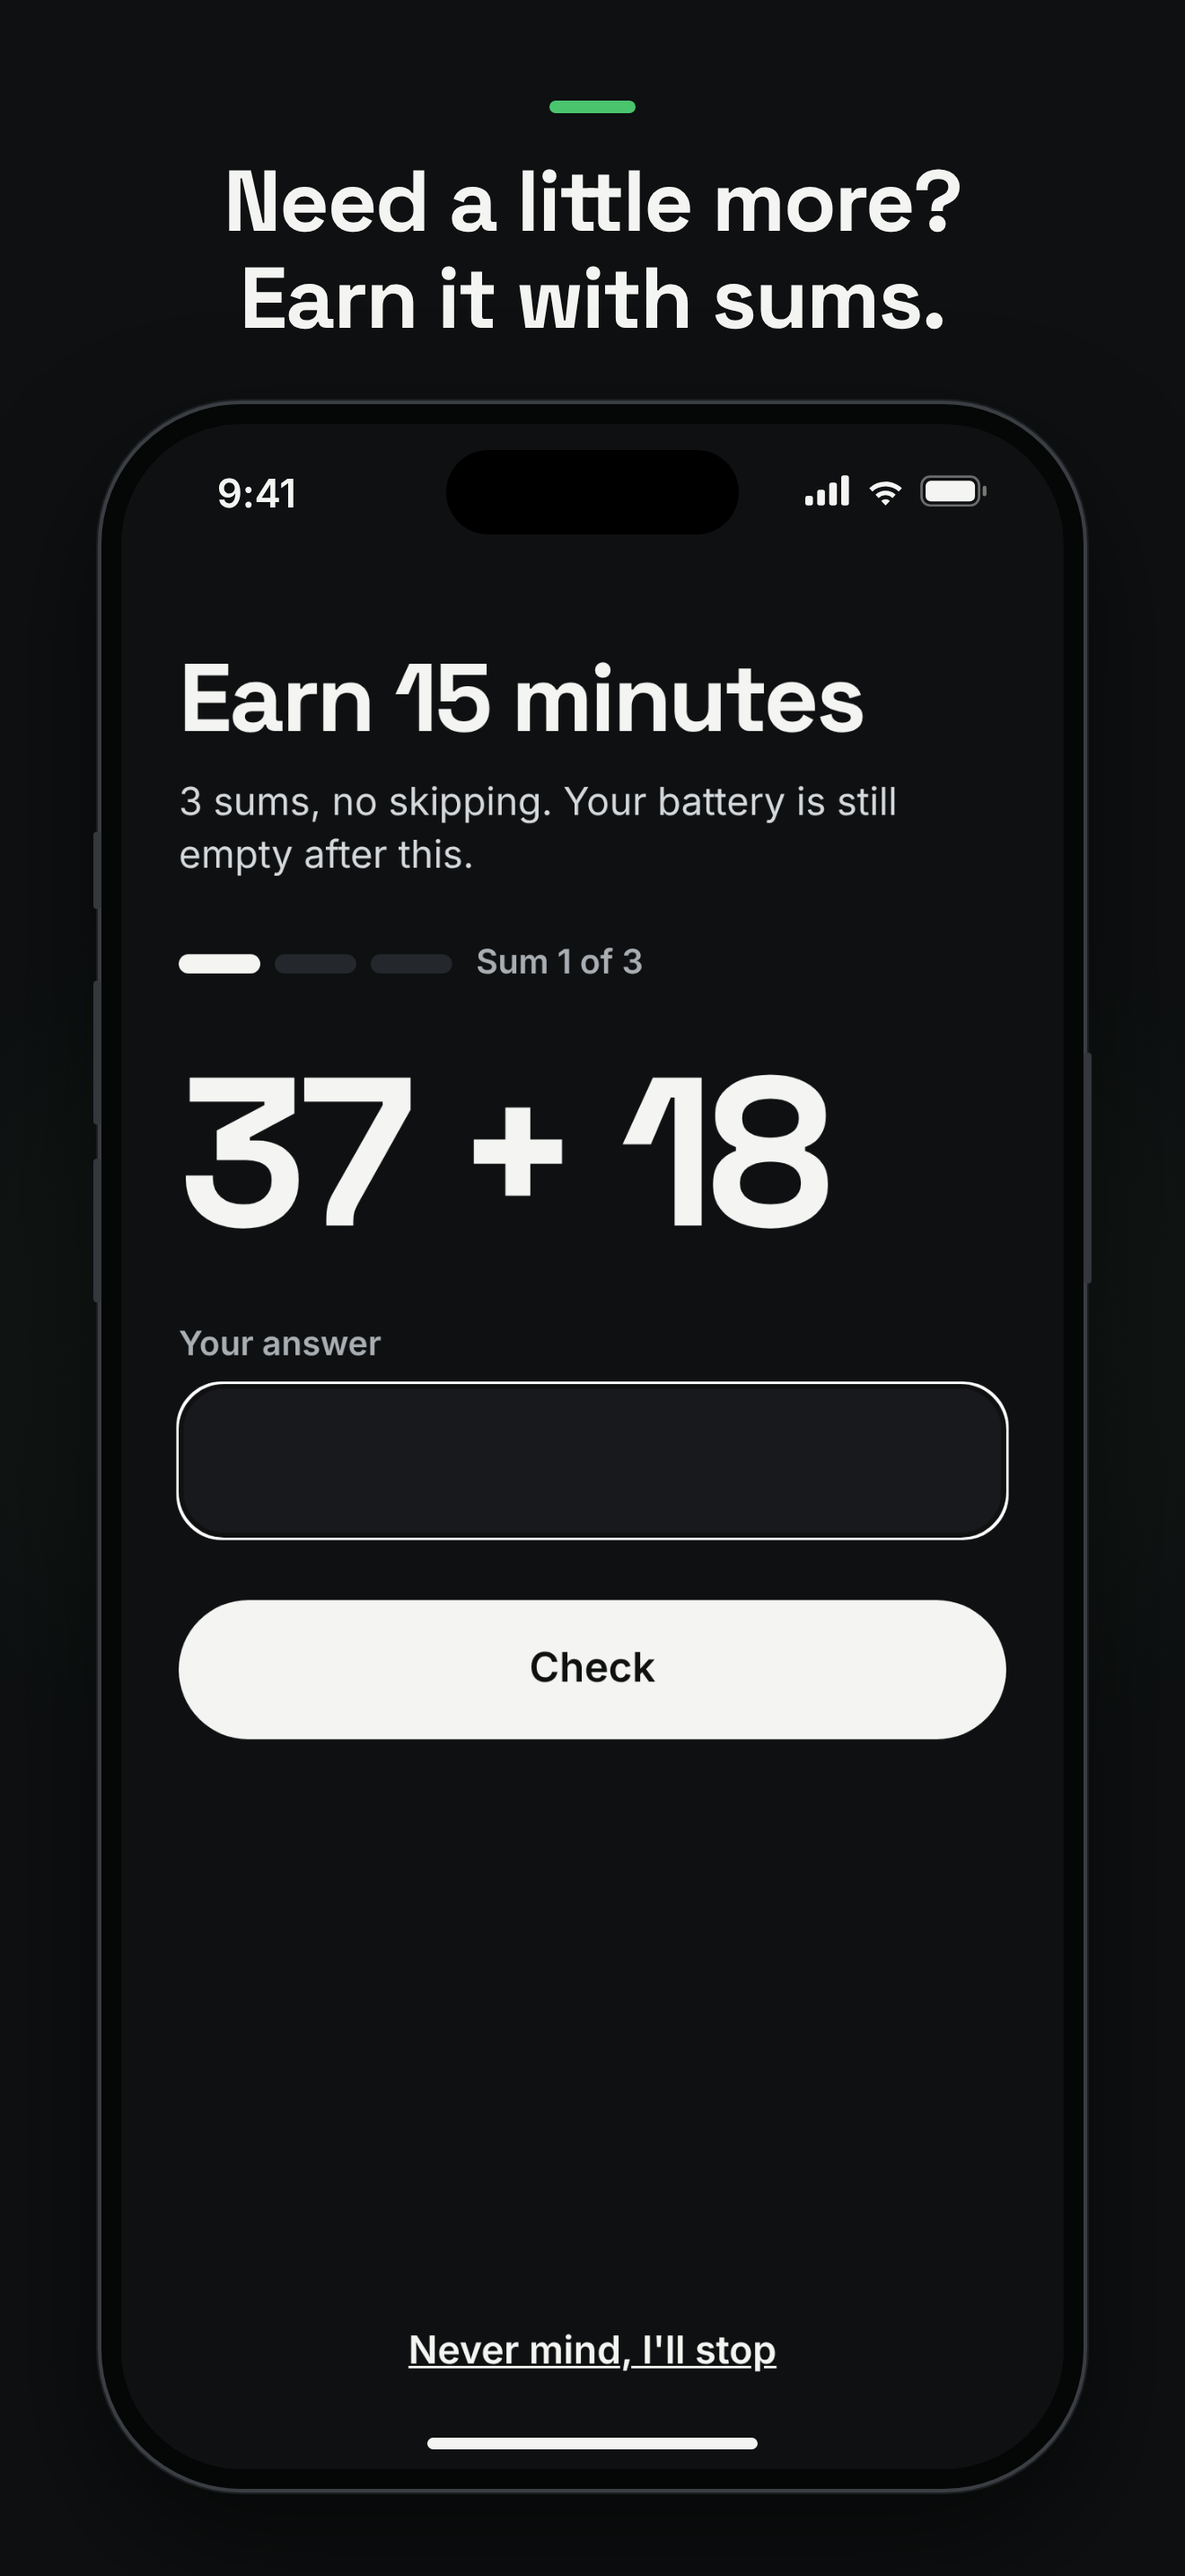
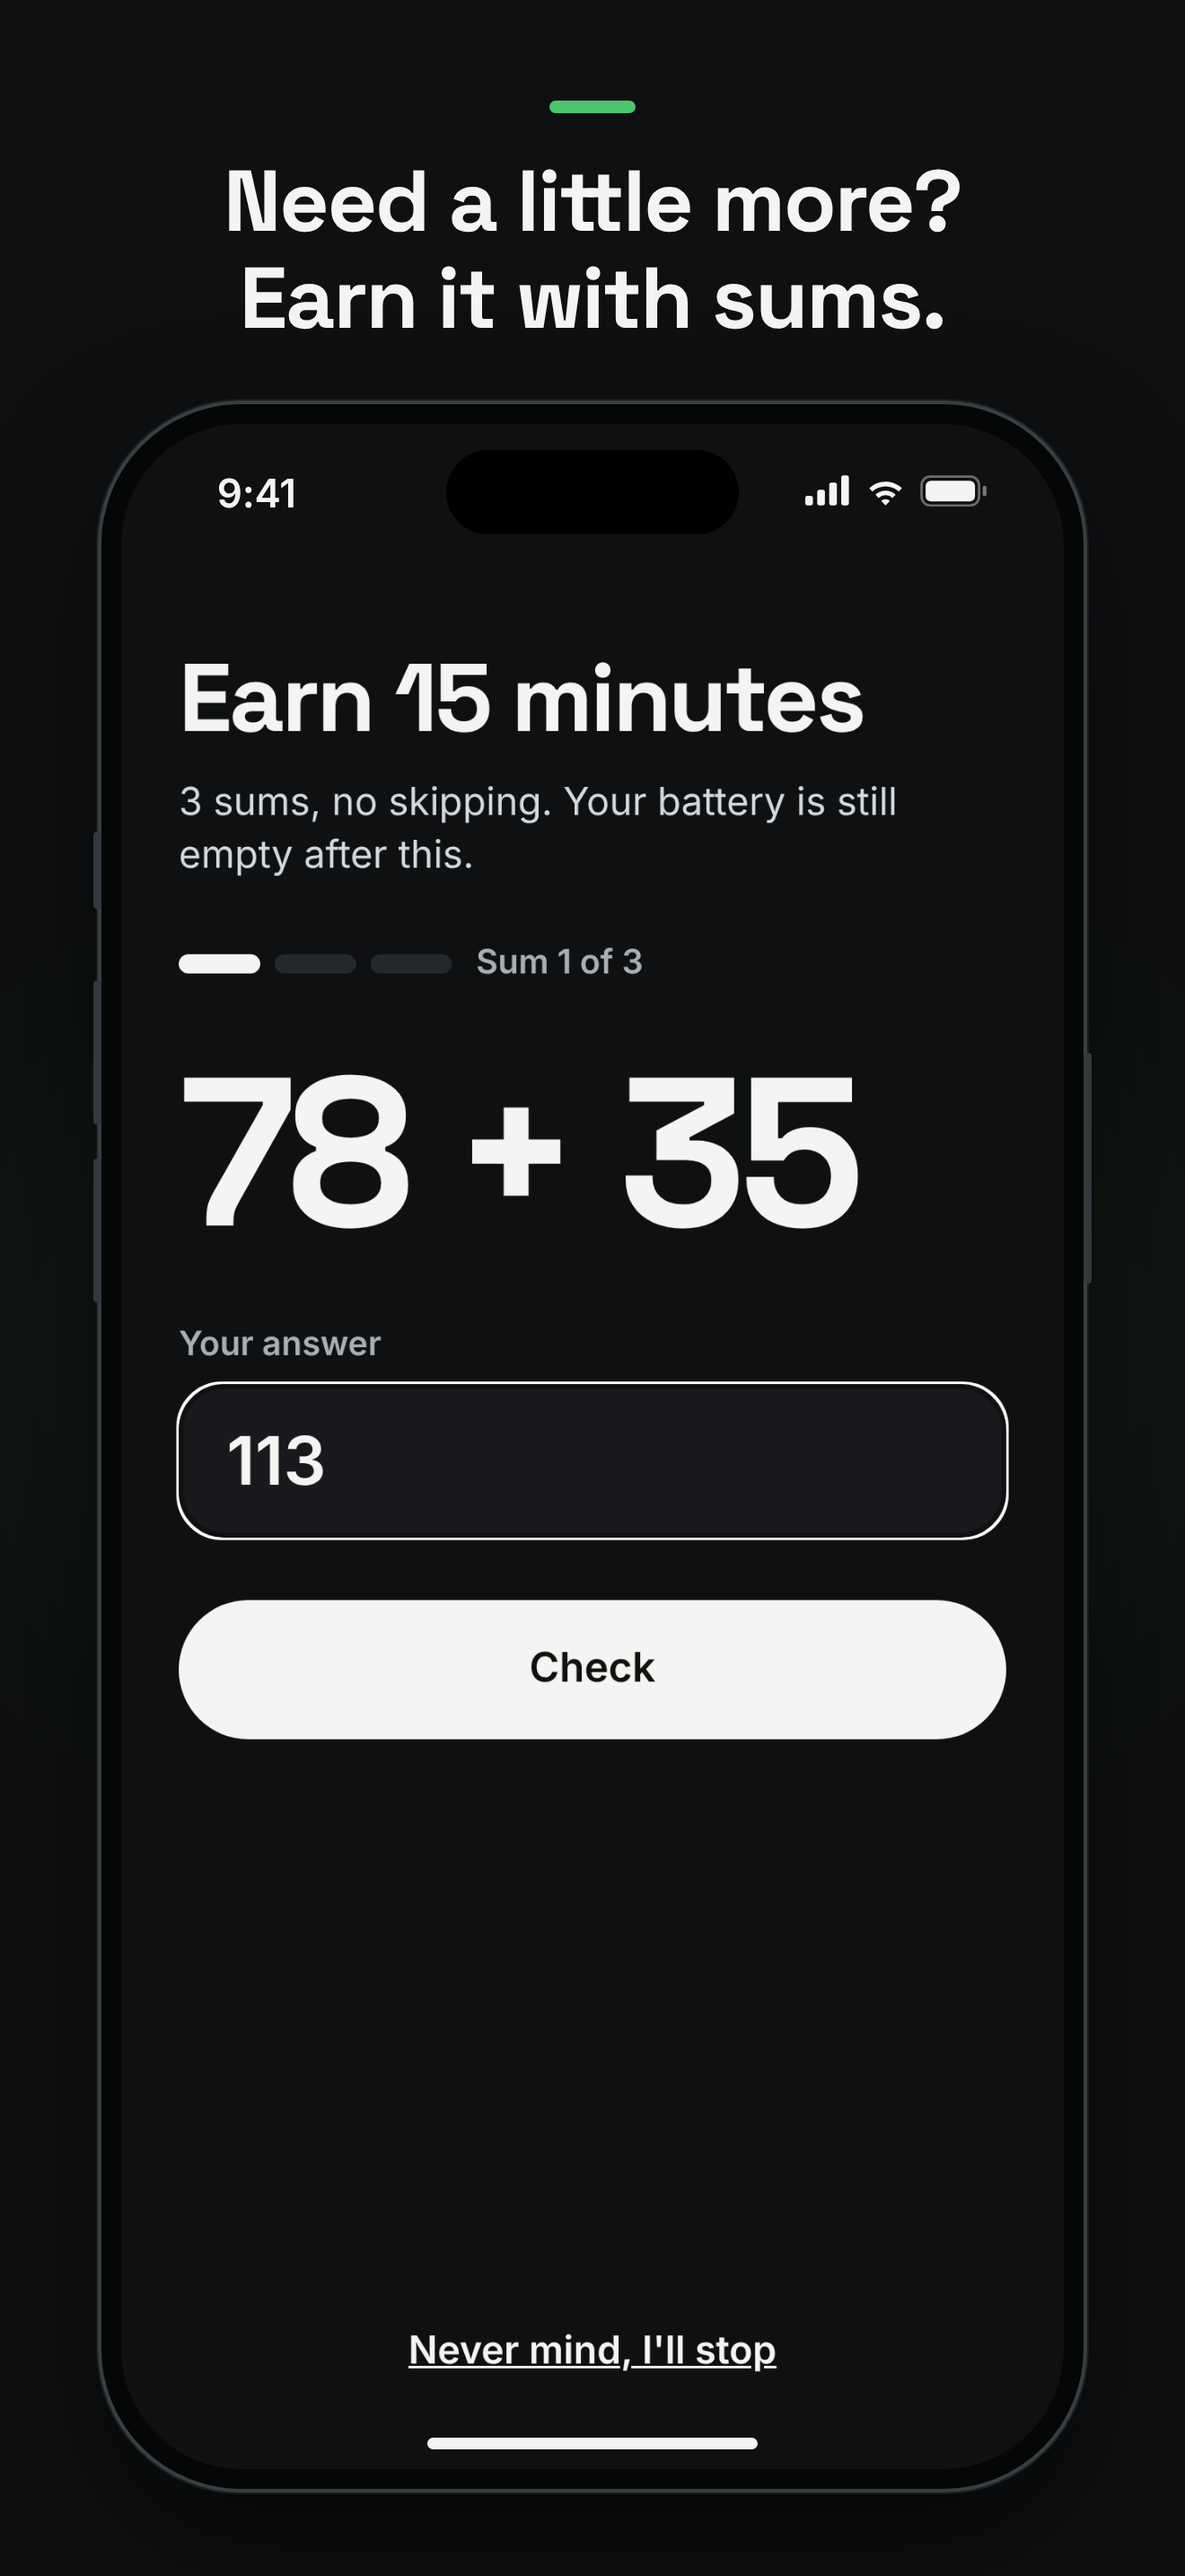
Plainlimit store screenshots: four, the strongest first
After a fresh-eyes review: What counts left out (it names other apps), the
empty battery shot in Locked mode to match its caption, the clock fixed at
9:41 AM so the countdown agrees, and an answer typed into the sums.

Claude-Session: https://claude.ai/code/session_01P4SSbMQUsnKyhcfhzrtFQp

Changed region(s): [[0.528, 0.4034, 0.7455, 0.4965], [0.1553, 0.4034, 0.3417, 0.4965], [0.1864, 0.5586, 0.2795, 0.5896]]

diff --git a/apps/plainlimit/NOTES.md b/apps/plainlimit/NOTES.md
@@ -320,7 +320,7 @@ The owner chose on 2026-11-16 to put Plainlimit on the App Store now, free with 
 
 1. **Release build.** `apps/plainlimit/testflight-request.json` with `"flavor": "release"`: no Developer section, no test buttons, no readout. `npm run check:release` (scripts/release-check.cjs) must pass first: the test tools switch off by themselves, the browser stand-in stays in the browser, no analytics, crash-reporting, update or purchase service, and the listing's bundle id matches. The privacy manifest also gives 1C8F.1 for the App Group settings the extensions share.
 2. **The listing** (`store/plainlimit/listing.json`): name "Plainlimit: Screen Time Limit" (the app record is "Plainlimit"; the listing tool sets the store name), subtitle "A daily battery for your apps", Productivity and Lifestyle, the description, keywords, promotional text, the support and privacy links, notes for App Review (how to try it at a 30-minute goal, and what Screen Time data the app does and doesn't see), free, the EU left out like the studio's other apps, age rating 4+ with every question "none". `tools/store_check.py` now allows an app version that sells nothing (no product, no purchase code, no Restore answer); `tools/asc_listing.py` skips the purchase section for one.
-3. **The screenshots** (`store/plainlimit/screenshots/`, `node e2e/store-shots.cjs` after a web export): Today with the battery, What counts, the empty battery, the sums, and Settings, under one short line each, on the app's own dark ground at 1320 x 2868. The web build draws them with `?mock=counting,store`, which stands in for a counting phone and leaves out the test tools, the Screen Time card and the box for Apple's list (only a phone can draw that list, and it would show other apps' names). Apple's lock screens and the widget are not in them.
+3. **The screenshots** (`store/plainlimit/screenshots/`, `node e2e/store-shots.cjs` after a web export): Today with the battery, the empty battery (in Locked mode, so the screen says what the caption says), Settings, and the sums with an answer typed in, under one short line each, on the app's own dark ground at 1320 x 2868, with the clock fixed at 9:41 AM so the countdown agrees with the status bar. A fresh-eyes review (2026-11-16) gave "almost": What counts was dropped (its steps name other companies' apps and read like a manual at that size), the strongest three lead, and the empty shot moved to Locked. Its points about the app itself are for after launch: the battery's used cell is the brightest one, so a small picture can read as one cell left; the week's lime and the brand green sit close; the web build's text tab bar differs from the iPhone's. The web build draws them with `?mock=counting,store`, which stands in for a counting phone and leaves out the test tools, the Screen Time card and the box for Apple's list (only a phone can draw that list, and it would show other apps' names). Apple's lock screens and the widget are not in them.
 4. **The privacy policy** (`site/apps-privacy.html`) has a Screen Time section: the app is told only how much time has gone, the picks are Apple's codes, the list and the total are drawn by Apple, nothing leaves the phone. The support page has a Plainlimit section from the listing.
 5. **Left for the owner** (Apple has no API for these, or they are personal): App Privacy, "Data Not Collected"; the contact person for App Review; and Submit for Review. Recommended before or soon after: the `SUPPORT_EMAIL` repository variable, so the support page offers an email address and not only the repo's issue page.
 
